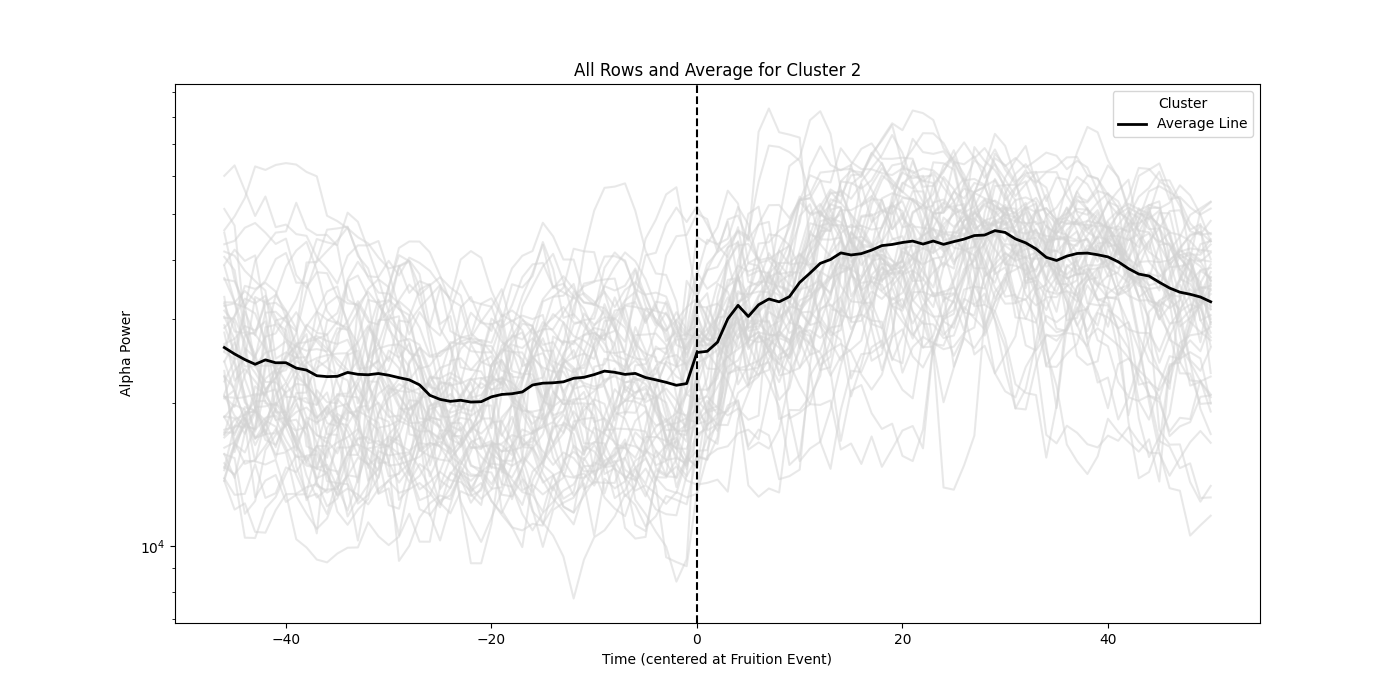
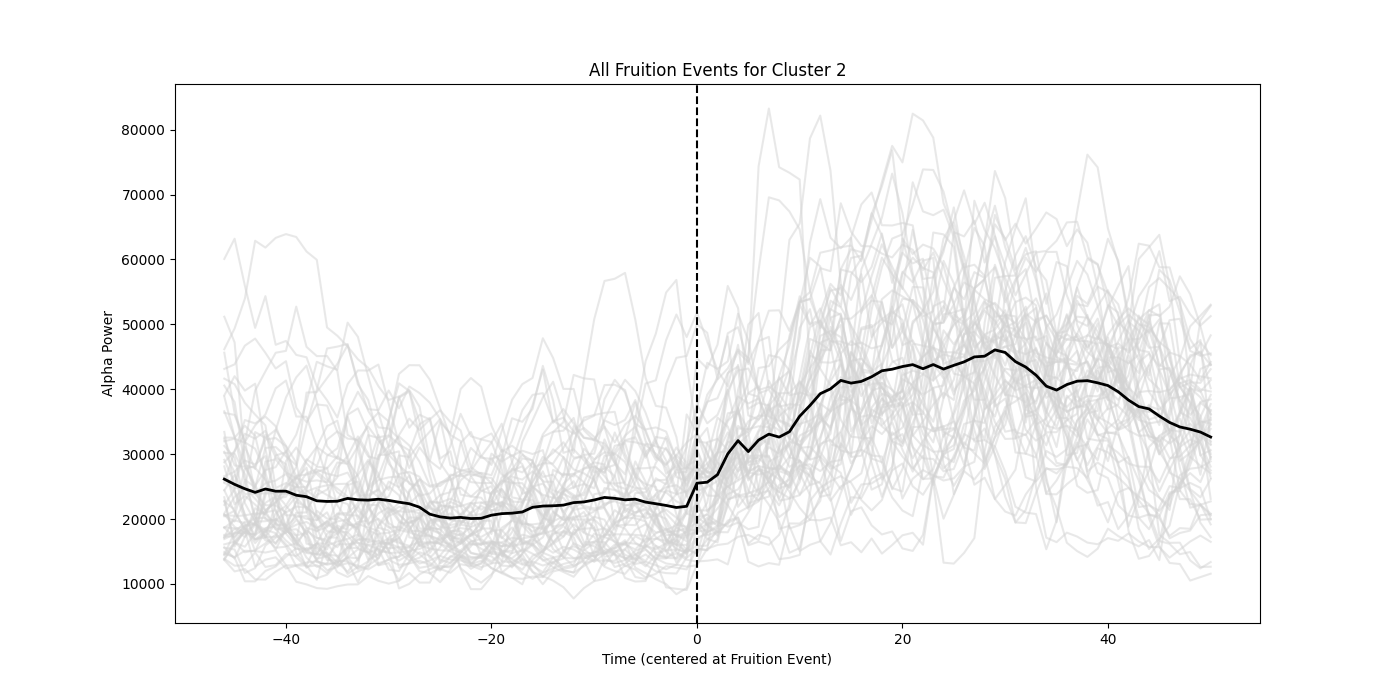
readme images updated

diff --git a/Plot_Fruition_Band_Comparison.py b/Plot_Fruition_Band_Comparison.py
@@ -140,7 +140,7 @@ if __name__ == '__main__':
 
   # Step 4: Line Plot of Averaged Columns per Cluster
   plt.figure(figsize=(14, 7))
-  plt.yscale('log')
+  #plt.yscale('log')
   plt.grid(axis='x', linestyle='--', alpha=0.5)  # Keeping only x-axis gridlines
 
   # Transpose clean_data back to the original orientation for plotting
@@ -174,7 +174,7 @@ if __name__ == '__main__':
 
     plt.figure(figsize=(14, 7))
     plt.grid(axis='x', linestyle='--', alpha=0.5)  # Keeping only x-axis gridlines
-    plt.yscale('log')
+    #plt.yscale('log')
     
     # Plotting all raw data rows in the cluster
     for col in columns_in_cluster.columns:
@@ -187,10 +187,10 @@ if __name__ == '__main__':
     plt.plot(x_values, rolling_avg_of_avg, label=f'Average Line', color='black', linewidth=2)
 
     # Add labels and legend
-    plt.title(f'All Rows and Average for Cluster {cluster + 1}')
+    plt.title(f'All Fruition Events for Cluster {cluster + 1}')
     plt.xlabel('Time (centered at Fruition Event)')
     plt.ylabel('Alpha Power')
-    plt.legend(title='Cluster', loc='upper right')
+    #plt.legend(title='Cluster', loc='upper right')
     plt.axvline(x=0, color='k', linestyle='--', label='Event Time')    
     plt.grid(False)  
     plt.show()

diff --git a/README.md b/README.md
@@ -30,7 +30,7 @@ Daniel Ingram, a seasoned meditator, has generously [shared](https://osf.io/srfn
 
 Alpha power reliably changes in the seconds before and after Fruitions. Chowdhury et al. reported a consistent increase of Alpha power in the 40 seconds before Fruitions, a decrease immediately afterward, and a gradual return to the original power in the following 40 seconds, as shown below. For clarity I've added the blue lines to emphasize the linear trends they describe in the study, and a vertical red line to highlight the fruition moments (all the charts below show fruition events at 'zero'):
 
-![Study Results](images/Study_alpha_annotated.png)
+![Study Results](images/study_alpha_annotated.png)
 
 The new dataset from Daniel appears to have this same behavior, but only for some Fruitions. The graph below plots two distinct behaviors of Alpha power around Fruitions. Cluster 2 behaves identically to the result study results, with an increase followed by a decrease then a recovery. A second distinct behavior (Cluster 1) starts out with low Alpha power then dramatically increases afterward. Both behaviors show reliable increases in Alpha power following Fruitions.
 
